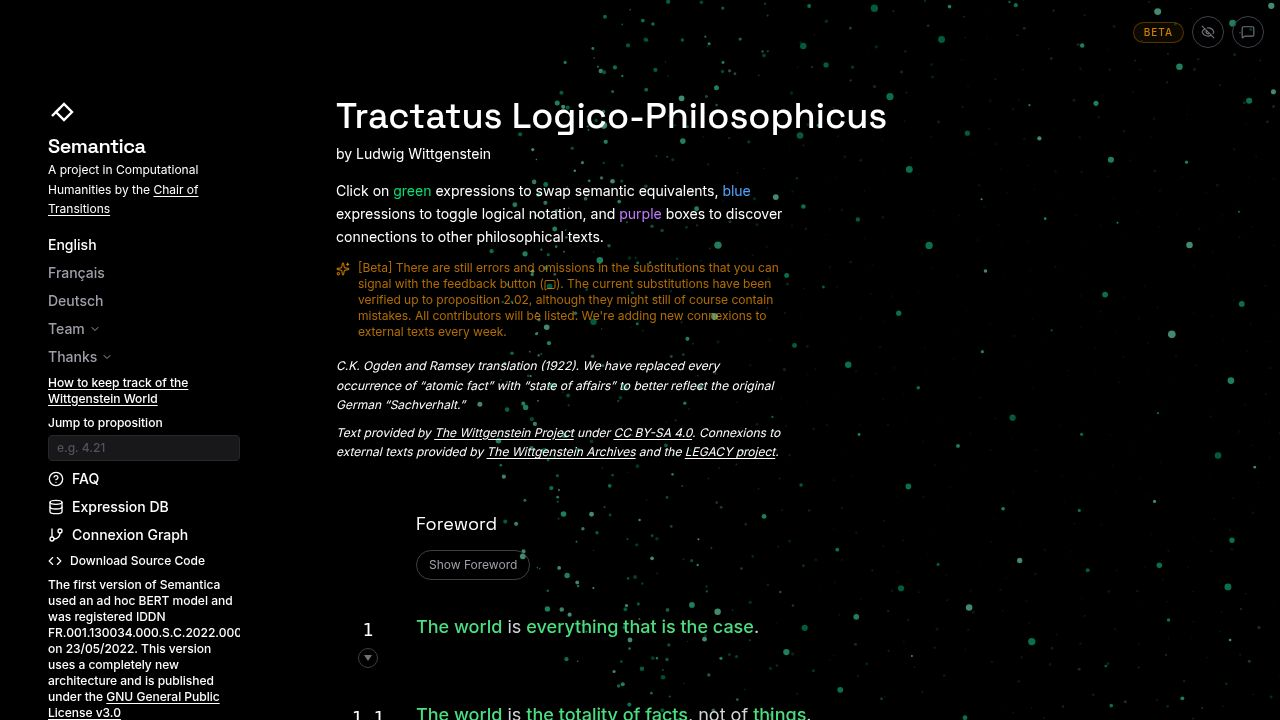
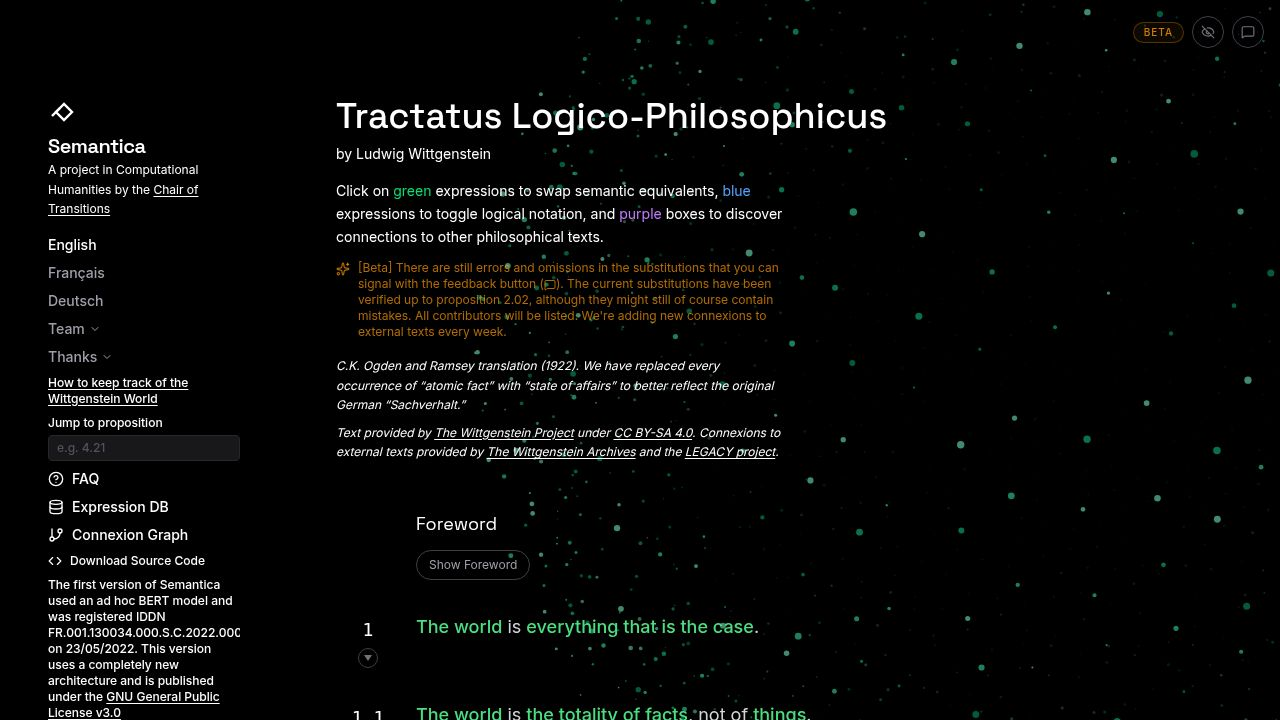
Remove external links from the website and update proposition phrasing
Removes external links to "Chair of Transitions" and "Machina Research Network" from multiple sections of the Home page. Updates phrasing for proposition 2.0211 by excluding "proposition" and adjusting grammar for full-phrase synonyms in English and French, while retaining grammar adaptations for German. Also removes "form" exclusion for proposition 2.0212.

Replit-Commit-Author: Agent
Replit-Commit-Session-Id: 3d3c5ee8-30ca-449f-a36a-2a26b9467d3a
Replit-Commit-Checkpoint-Type: full_checkpoint
Replit-Commit-Event-Id: d24bbfd1-5612-4aeb-a117-6c4d59e90b1d
Replit-Commit-Screenshot-Url: https://storage.googleapis.com/screenshot-production-us-central1/2c497065-9d4a-4f02-8f2e-021a778ebca1/3d3c5ee8-30ca-449f-a36a-2a26b9467d3a/bhp252T
Replit-Helium-Checkpoint-Created: true

diff --git a/client/src/pages/Home.tsx b/client/src/pages/Home.tsx
@@ -372,7 +372,7 @@ export default function Home() {
               <path d="M5 25 L15 15" />
             </svg>
             <h1 className="font-display font-semibold text-white text-xl tracking-tight">Semantica</h1>
-            <p className="text-white text-xs leading-relaxed">{language === 'fr' ? <>Un projet en Humanités Computationnelles de la <a href="https://chairtransitions.com/" target="_blank" rel="noopener noreferrer" className="text-white hover:text-green-400 transition-colors underline underline-offset-2" data-testid="link-chair-subtitle">Chair of Transitions</a></> : language === 'de' ? <>Ein Projekt der Computational Humanities vom <a href="https://chairtransitions.com/" target="_blank" rel="noopener noreferrer" className="text-white hover:text-green-400 transition-colors underline underline-offset-2" data-testid="link-chair-subtitle">Chair of Transitions</a></> : <>A project in Computational Humanities by the <a href="https://chairtransitions.com/" target="_blank" rel="noopener noreferrer" className="text-white hover:text-green-400 transition-colors underline underline-offset-2" data-testid="link-chair-subtitle">Chair of Transitions</a></>}</p>
+            <p className="text-white text-xs leading-relaxed">{language === 'fr' ? <>Un projet en Humanités Computationnelles de la Chair of Transitions</> : language === 'de' ? <>Ein Projekt der Computational Humanities vom Chair of Transitions</> : <>A project in Computational Humanities by the Chair of Transitions</>}</p>
           </div>
 
           <nav className="flex flex-col gap-2 font-medium text-sm">
@@ -435,7 +435,7 @@ export default function Home() {
                 <div className="h-px w-6 bg-zinc-800 my-1"></div>
                 <span className="text-zinc-500 italic">{language === 'fr' ? 'Avec l\'aide spéciale de :' : language === 'de' ? 'Mit besonderer Hilfe von:' : 'With the special help of:'}</span>
                 <span className="text-zinc-400">SATT Sud Est</span>
-                <a href="https://machina.rn" target="_blank" rel="noopener noreferrer" className="text-zinc-400 hover:text-green-400 transition-colors" data-testid="link-machina">Machina Research Network</a>
+                <span className="text-zinc-400" data-testid="link-machina">Machina Research Network</span>
                 <a href="https://www.iufrance.fr/" target="_blank" rel="noopener noreferrer" className="text-zinc-400 hover:text-green-400 transition-colors" data-testid="link-iuf">Institut Universitaire de France</a>
                 <a href="https://legacy-um6p.1337.ma/home" target="_blank" rel="noopener noreferrer" className="text-zinc-400 hover:text-green-400 transition-colors" data-testid="link-legacy-thanks">LEGACY project</a>
               </div>
@@ -554,10 +554,10 @@ export default function Home() {
                   </h3>
                   <p className="text-white text-sm leading-relaxed">
                     {language === 'fr'
-                      ? <>Nous sommes une équipe de recherche affiliée à la <a href="https://chairtransitions.com/" target="_blank" rel="noopener noreferrer" className="text-green-400 hover:text-green-300 underline underline-offset-2">Chair of Transitions</a> de l'Université Mohammed VI Polytechnique et au <a href="https://machina.rn" target="_blank" rel="noopener noreferrer" className="text-green-400 hover:text-green-300 underline underline-offset-2">Machina Research Network</a>. Nos travaux portent sur les intersections entre philosophie, épistémologie, et les humanités numériques et computationnelles.</>
+                      ? <>Nous sommes une équipe de recherche affiliée à la Chair of Transitions de l'Université Mohammed VI Polytechnique et au Machina Research Network. Nos travaux portent sur les intersections entre philosophie, épistémologie, et les humanités numériques et computationnelles.</>
                       : language === 'de'
-                      ? <>Wir sind ein Forschungsteam, das mit dem <a href="https://chairtransitions.com/" target="_blank" rel="noopener noreferrer" className="text-green-400 hover:text-green-300 underline underline-offset-2">Chair of Transitions</a> der Mohammed VI Polytechnic University und dem <a href="https://machina.rn" target="_blank" rel="noopener noreferrer" className="text-green-400 hover:text-green-300 underline underline-offset-2">Machina Research Network</a> verbunden ist. Unsere Arbeit konzentriert sich auf die Schnittstellen zwischen Philosophie, Epistemologie und den digitalen und computerbasierten Geisteswissenschaften.</>
-                      : <>We are a research team affiliated with the <a href="https://chairtransitions.com/" target="_blank" rel="noopener noreferrer" className="text-green-400 hover:text-green-300 underline underline-offset-2">Chair of Transitions</a> at Mohammed VI Polytechnic University and the <a href="https://machina.rn" target="_blank" rel="noopener noreferrer" className="text-green-400 hover:text-green-300 underline underline-offset-2">Machina Research Network</a>. Our work focuses on the intersections between philosophy, epistemology, and the digital and computational humanities.</>
+                      ? <>Wir sind ein Forschungsteam, das mit dem Chair of Transitions der Mohammed VI Polytechnic University und dem Machina Research Network verbunden ist. Unsere Arbeit konzentriert sich auf die Schnittstellen zwischen Philosophie, Epistemologie und den digitalen und computerbasierten Geisteswissenschaften.</>
+                      : <>We are a research team affiliated with the Chair of Transitions at Mohammed VI Polytechnic University and the Machina Research Network. Our work focuses on the intersections between philosophy, epistemology, and the digital and computational humanities.</>
                     }
                   </p>
                 </div>
